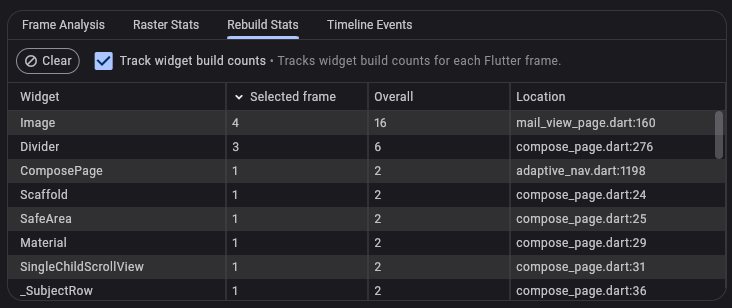
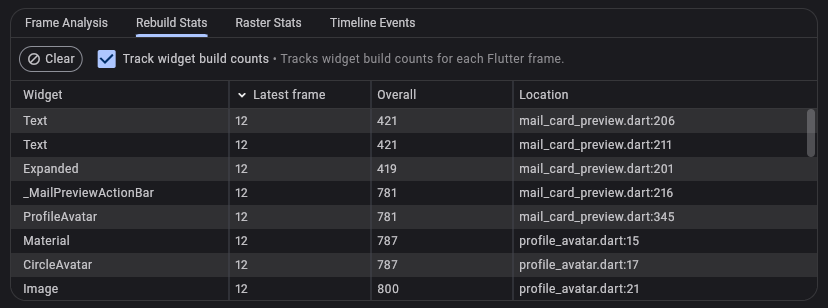
fix issue when selecting flutter frame

diff --git a/packages/devtools_app/lib/src/screens/performance/performance_controller.dart b/packages/devtools_app/lib/src/screens/performance/performance_controller.dart
@@ -16,6 +16,7 @@ import 'panes/controls/enhance_tracing/enhance_tracing_controller.dart';
 import 'panes/flutter_frames/flutter_frame_model.dart';
 import 'panes/flutter_frames/flutter_frames_controller.dart';
 import 'panes/raster_stats/raster_stats_controller.dart';
+import 'panes/rebuild_stats/rebuild_stats_controller.dart';
 import 'panes/rebuild_stats/rebuild_stats_model.dart';
 import 'panes/timeline_events/timeline_events_controller.dart';
 import 'performance_model.dart';
@@ -36,10 +37,12 @@ class PerformanceController extends DisposableController
     flutterFramesController = FlutterFramesController(this);
     timelineEventsController = TimelineEventsController(this);
     rasterStatsController = RasterStatsController(this);
+    rebuildStatsController = RebuildStatsController(this);
     _featureControllers = [
       flutterFramesController,
       timelineEventsController,
       rasterStatsController,
+      rebuildStatsController,
     ];
 
     if (serviceConnection.serviceManager.connectedApp?.isDartWebAppNow ??
@@ -58,6 +61,8 @@ class PerformanceController extends DisposableController
   late final TimelineEventsController timelineEventsController;
 
   late final RasterStatsController rasterStatsController;
+
+  late final RebuildStatsController rebuildStatsController;
 
   late List<PerformanceFeatureController> _featureControllers;
 

diff --git a/packages/devtools_app/lib/src/screens/performance/tabbed_performance_view.dart b/packages/devtools_app/lib/src/screens/performance/tabbed_performance_view.dart
@@ -147,6 +147,17 @@ class _TabbedPerformanceViewState extends State<TabbedPerformanceView>
           ),
           featureController: null,
         ),
+      if (showRebuildStats)
+        (
+          tab: _buildTab(tabName: 'Rebuild Stats'),
+          tabView: KeepAliveWrapper(
+            child: RebuildStatsView(
+              model: controller.rebuildCountModel,
+              selectedFrame: controller.flutterFramesController.selectedFrame,
+            ),
+          ),
+          featureController: controller.rebuildStatsController,
+        ),
       if (showRasterStats)
         (
           tab: _buildTab(tabName: 'Raster Stats'),
@@ -159,17 +170,6 @@ class _TabbedPerformanceViewState extends State<TabbedPerformanceView>
             ),
           ),
           featureController: controller.rasterStatsController,
-        ),
-      if (showRebuildStats)
-        (
-          tab: _buildTab(tabName: 'Rebuild Stats'),
-          tabView: KeepAliveWrapper(
-            child: RebuildStatsView(
-              model: controller.rebuildCountModel,
-              selectedFrame: controller.flutterFramesController.selectedFrame,
-            ),
-          ),
-          featureController: null,
         ),
       (
         tab: _buildTab(

diff --git a/packages/devtools_app/lib/src/screens/performance/panes/timeline_events/timeline_events_controller.dart b/packages/devtools_app/lib/src/screens/performance/panes/timeline_events/timeline_events_controller.dart
@@ -393,7 +393,7 @@ class TimelineEventsController extends PerformanceFeatureController
         final timelineEventsUnavailable =
             perfettoController.processor.frameIsBeforeTimelineData(frame.id);
         if (timelineEventsUnavailable) {
-          pushNoTimelineEventsAvailableWarning();
+          _maybePushNoTimelineEventsWarning();
           return;
         }
         await onProcessMore();
@@ -434,7 +434,7 @@ class TimelineEventsController extends PerformanceFeatureController
             // At this point, we still have not processed any timeline events
             // for this Flutter frame, which means we will never have access to
             // the timeline events for [frame].
-            pushNoTimelineEventsAvailableWarning();
+            _maybePushNoTimelineEventsWarning();
           }
         },
       );
@@ -498,6 +498,12 @@ class TimelineEventsController extends PerformanceFeatureController
         ? offlineData != null && offlineData.frames.isNotEmpty
         : serviceConnection.serviceManager.connectedApp?.isFlutterAppNow ??
             false;
+  }
+
+  void _maybePushNoTimelineEventsWarning() {
+    if (isActiveFeature) {
+      pushNoTimelineEventsAvailableWarning();
+    }
   }
 
   @override

diff --git a/packages/devtools_app/lib/src/screens/performance/panes/rebuild_stats/rebuild_stats_controller.dart b/packages/devtools_app/lib/src/screens/performance/panes/rebuild_stats/rebuild_stats_controller.dart
@@ -1,0 +1,32 @@
+// Copyright 2024 The Chromium Authors. All rights reserved.
+// Use of this source code is governed by a BSD-style license that can be
+// found in the LICENSE file.
+
+import 'dart:async';
+
+import '../../performance_controller.dart';
+import '../../performance_model.dart';
+import '../flutter_frames/flutter_frame_model.dart';
+
+// TODO(kenz): merge this control with the Rebuild Stats model class so that
+// this feature conforms to the patterns of other Performance page features.
+// This is just a temporary placeholder to ensure that we do not switch off of
+// the Rebuild Stats tab when frame selections occur.
+class RebuildStatsController extends PerformanceFeatureController {
+  RebuildStatsController(super.performanceController);
+
+  @override
+  FutureOr<void> clearData() {}
+
+  @override
+  void handleSelectedFrame(FlutterFrame frame) {}
+
+  @override
+  Future<void> init() async {}
+
+  @override
+  void onBecomingActive() {}
+
+  @override
+  Future<void> setOfflineData(OfflinePerformanceData offlineData) async {}
+}
